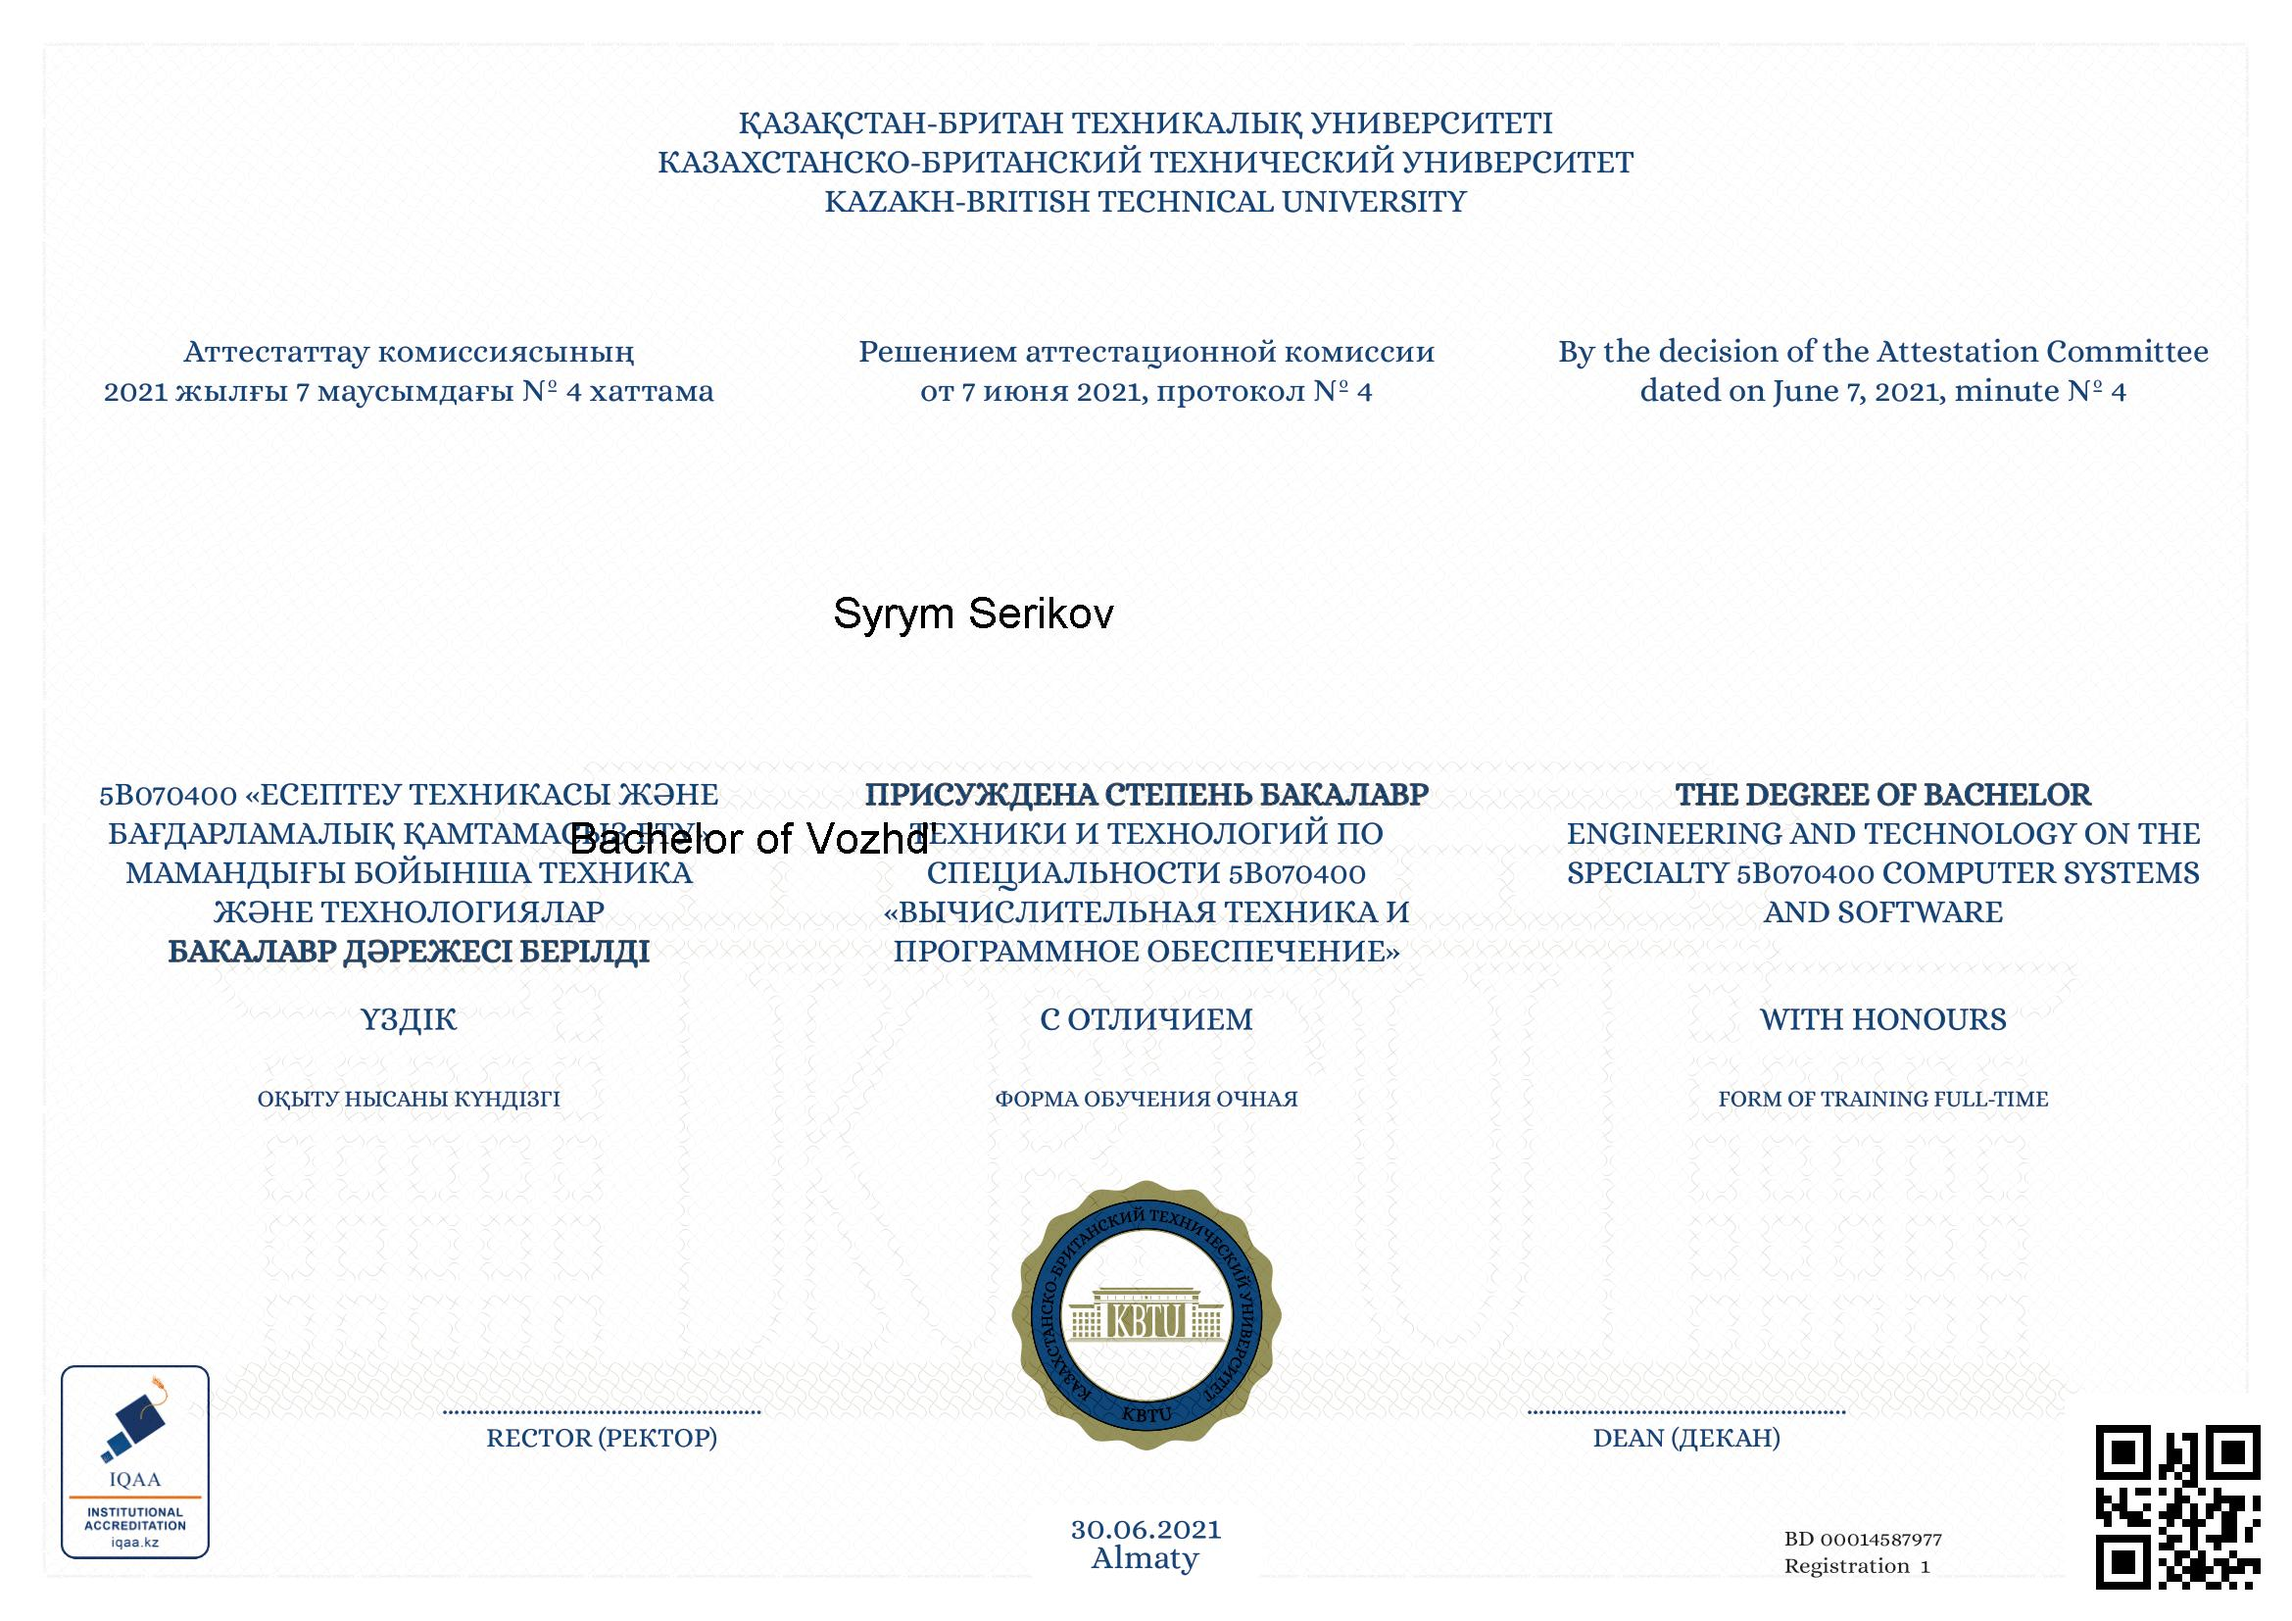
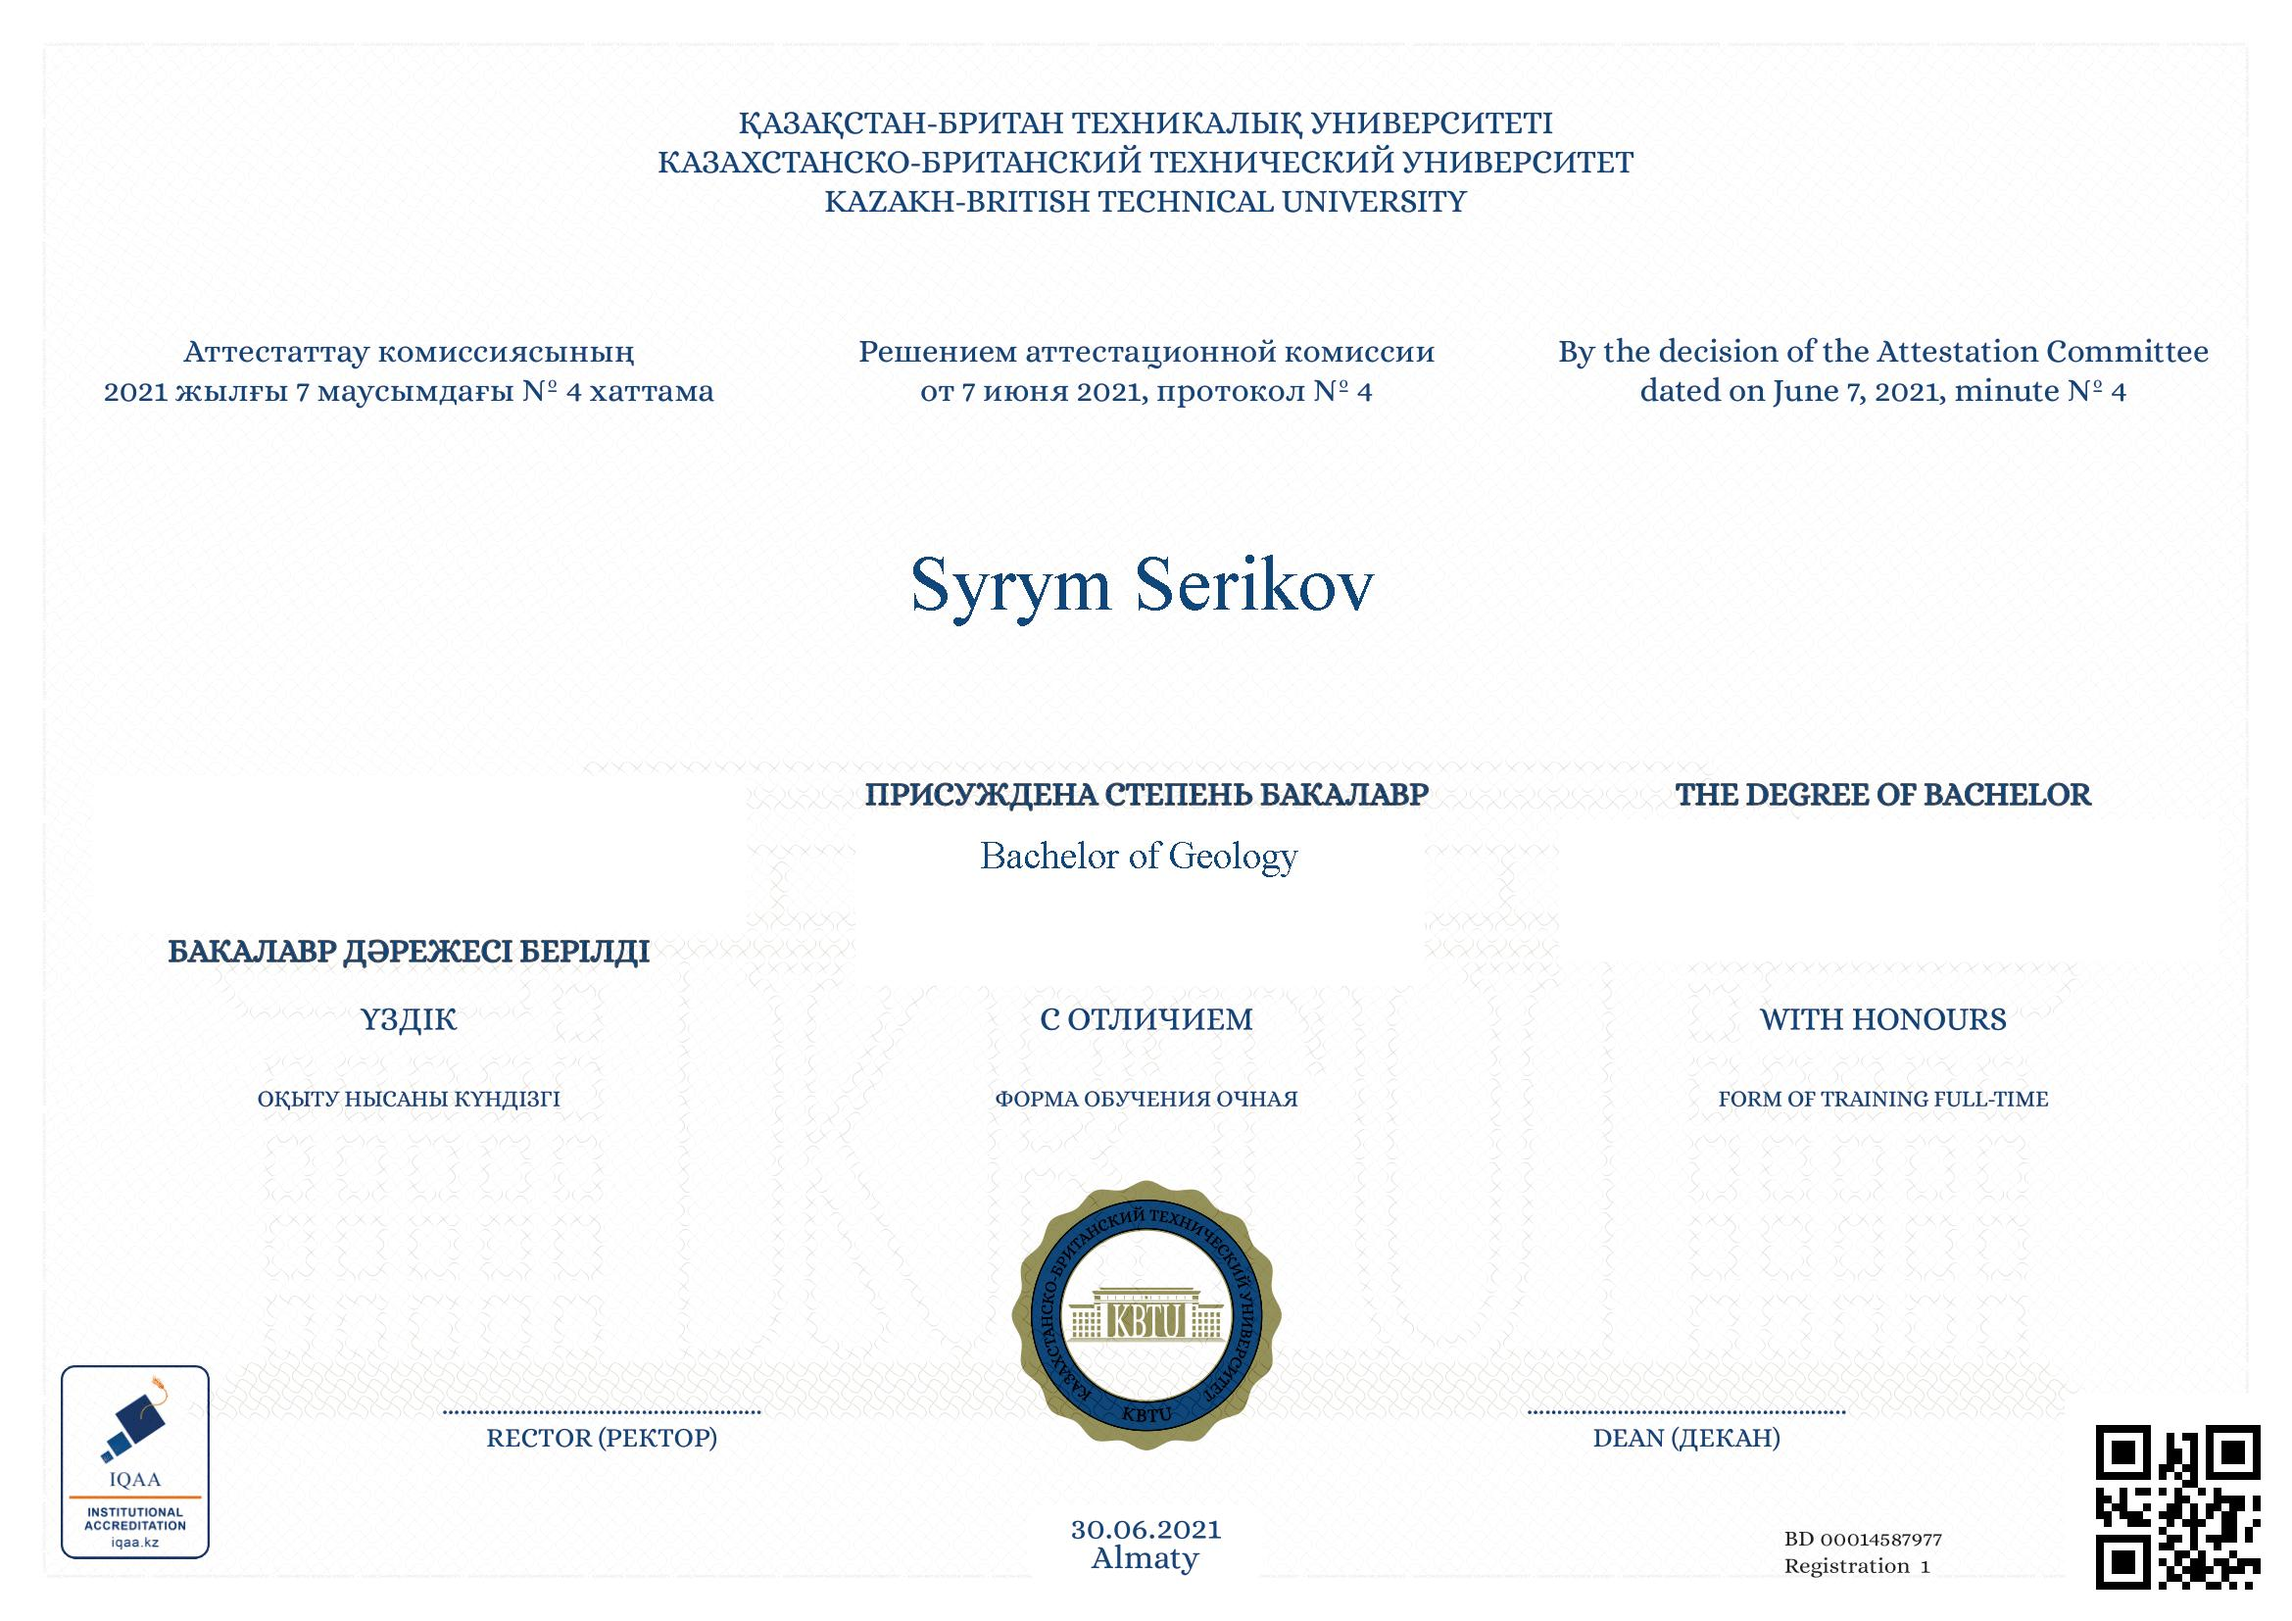
Minor edits in centering text, changing text color and adding new attributes in config.py

Changed region(s): [[0.0312, 0.4625, 0.6242, 0.6167], [0.6866, 0.4933, 0.9675, 0.5859], [0.3745, 0.3392, 0.593, 0.4008]]

diff --git a/generator/diploma.py b/generator/diploma.py
@@ -1,12 +1,15 @@
+#import os
 import pandas as pd
 from PIL import Image, ImageDraw, ImageFont
 import qrcode
-#import os
+#import config
 from config import *
 
 data = pd.read_excel(excel_file)
 template = Image.open(diploma_template)
-font = ImageFont.truetype('arial', size=45)
+font_name = ImageFont.truetype(font_path, size=font_size)
+font_details = ImageFont.truetype(font_path, size=40)
+
 # Create a folder for saving the diploma images
 # os.makedirs('Diplomas', exist_ok=True)
 for index, row in data.iterrows():
@@ -24,8 +27,13 @@ for index, row in data.iterrows():
     draw = ImageDraw.Draw(diploma)
 
     # Draw the student's name and degree information on the diploma.
-    draw.text((850, 600), name, font=font, fill='black')
-    draw.text((580, 830), degree, font=font, fill='black')
+    text_width, text_height = draw.textsize(name, font_name)
+    x = (diploma.width - text_width) / 2
+    draw.text((x, 550), name, font=font_name, fill=font_color)
+
+    text_width, text_height = draw.textsize(degree, font_details)
+    x = (diploma.width - text_width) / 2
+    draw.text((x, 850), degree, font=font_details, fill=font_color)
 
     #Convert image mode to RGB
     if diploma.mode != 'RGB':

diff --git a/generator/config.py b/generator/config.py
@@ -6,3 +6,8 @@ bachelor = True
 #IPFS links
 ipfs_images = ''
 ipfs_json = ''
+
+#Template details
+font_path = 'C:/Windows/Fonts/times.ttf'
+font_size = 80
+font_color = (16, 71, 122)
